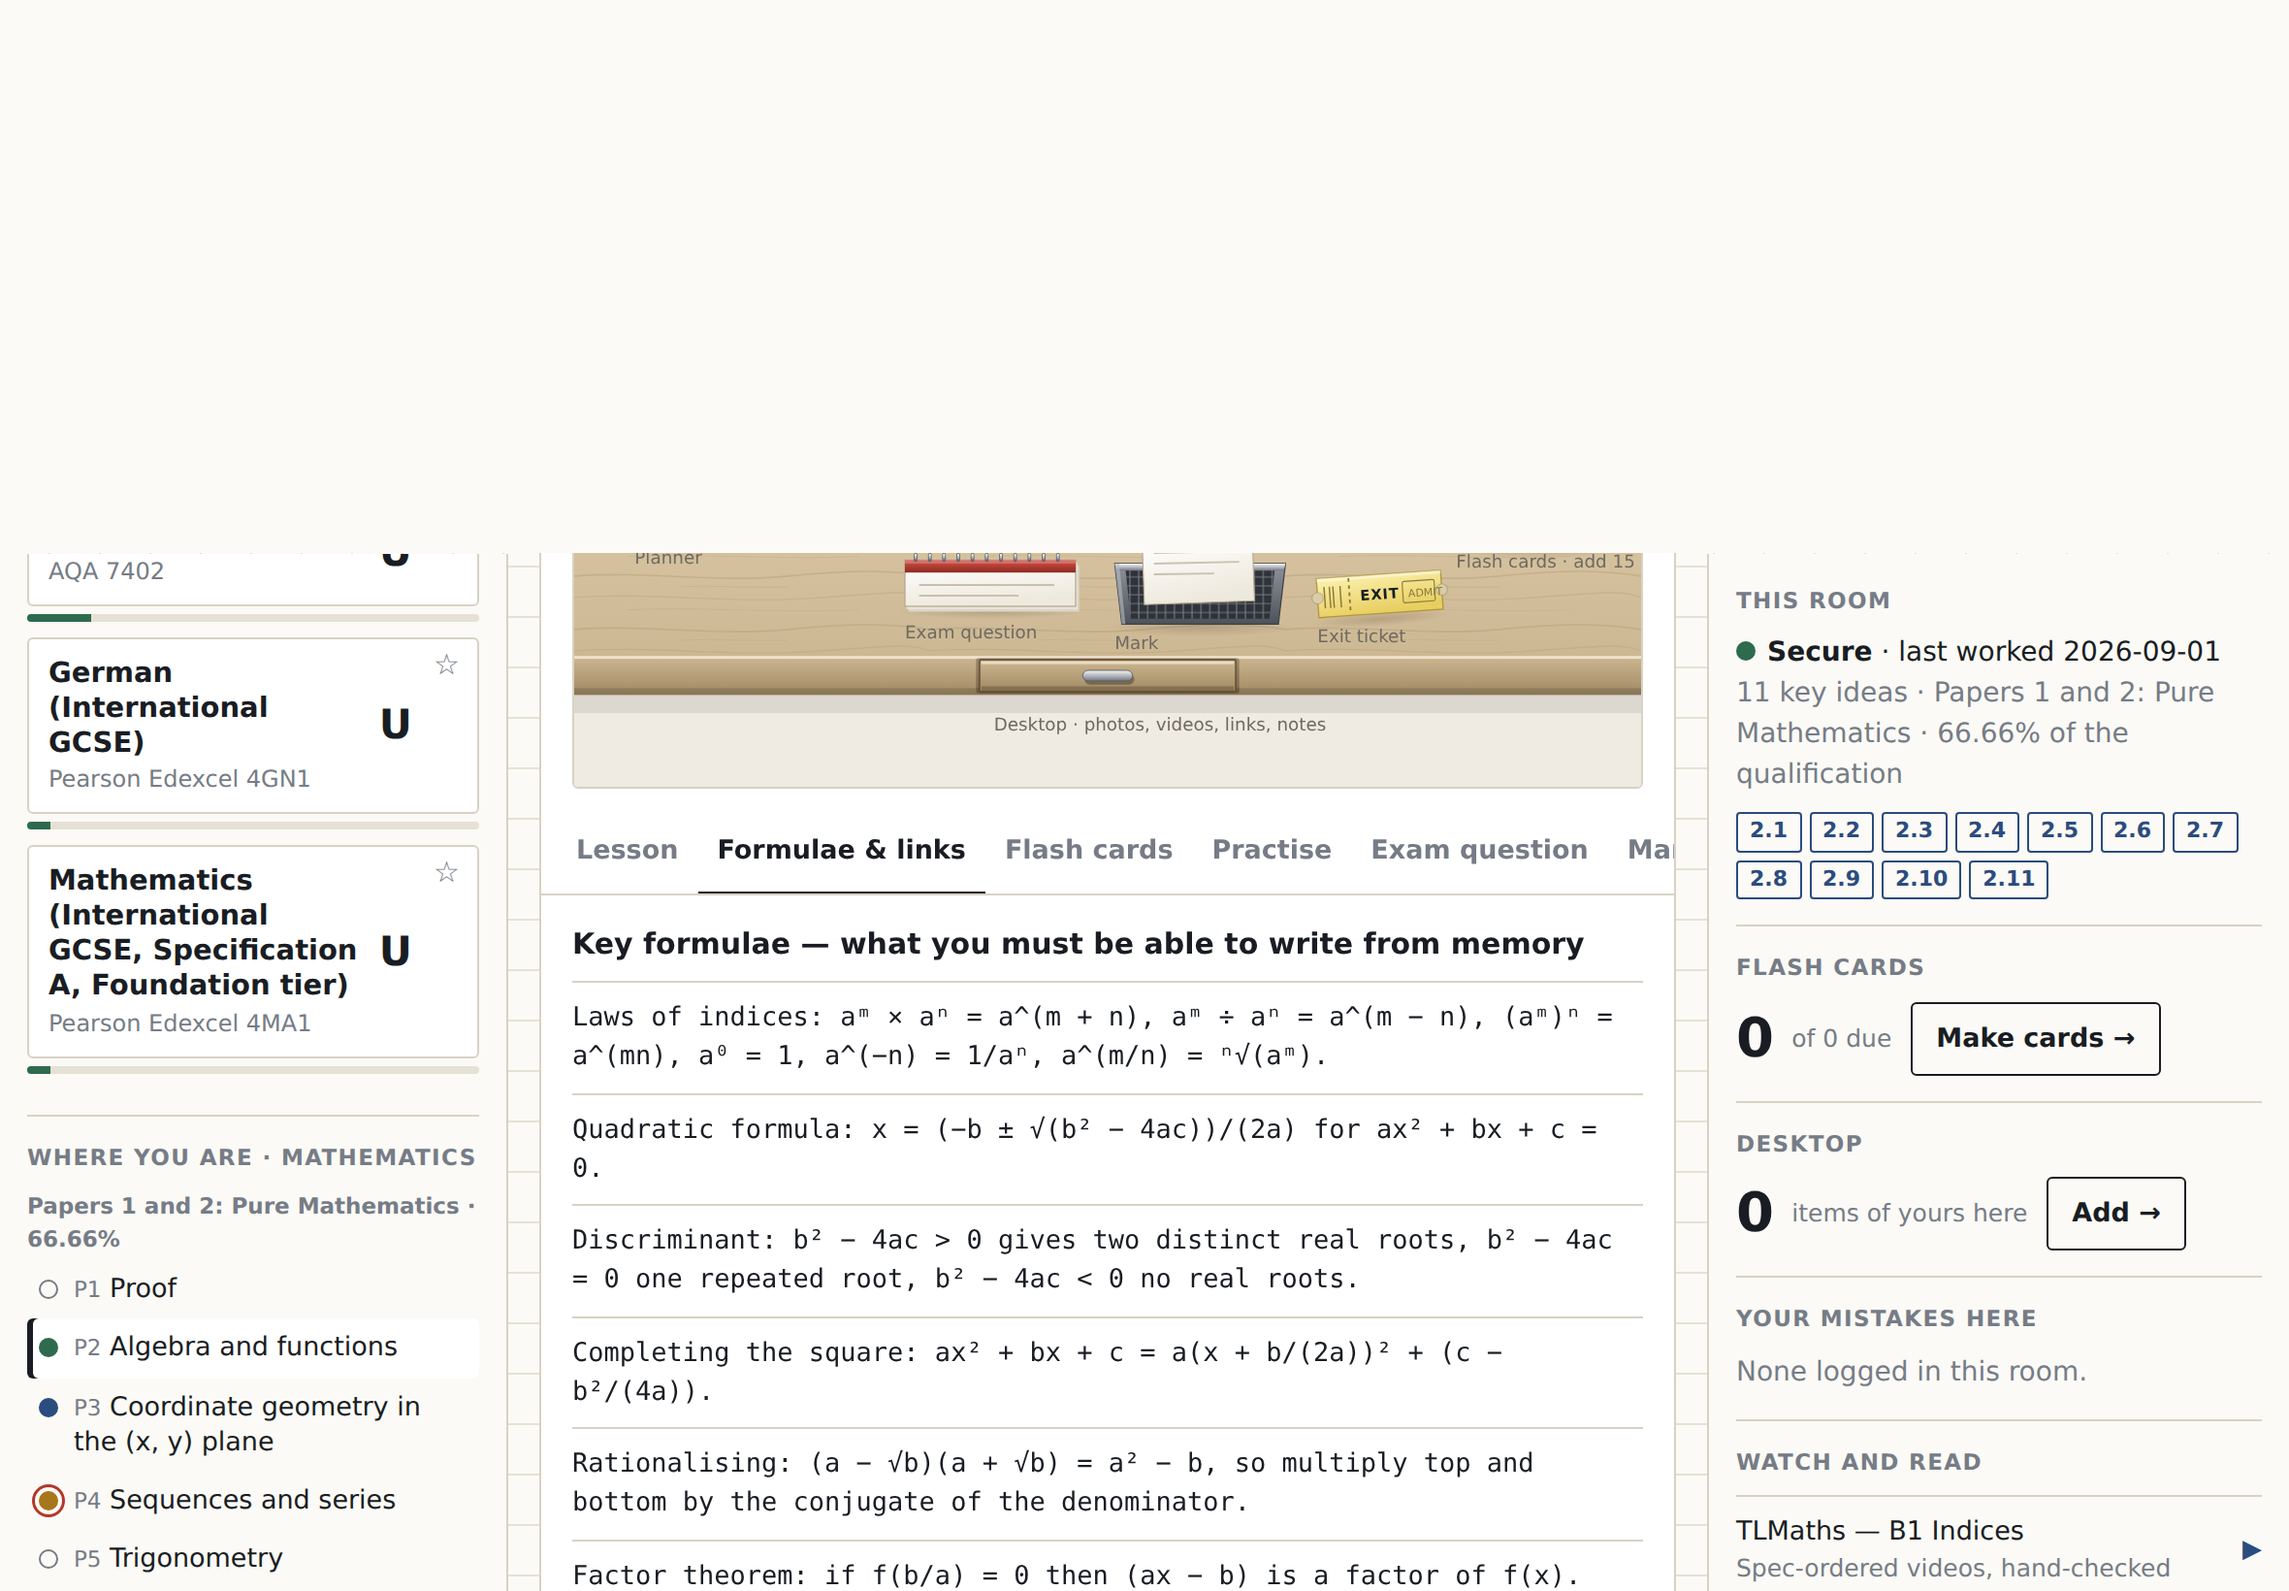
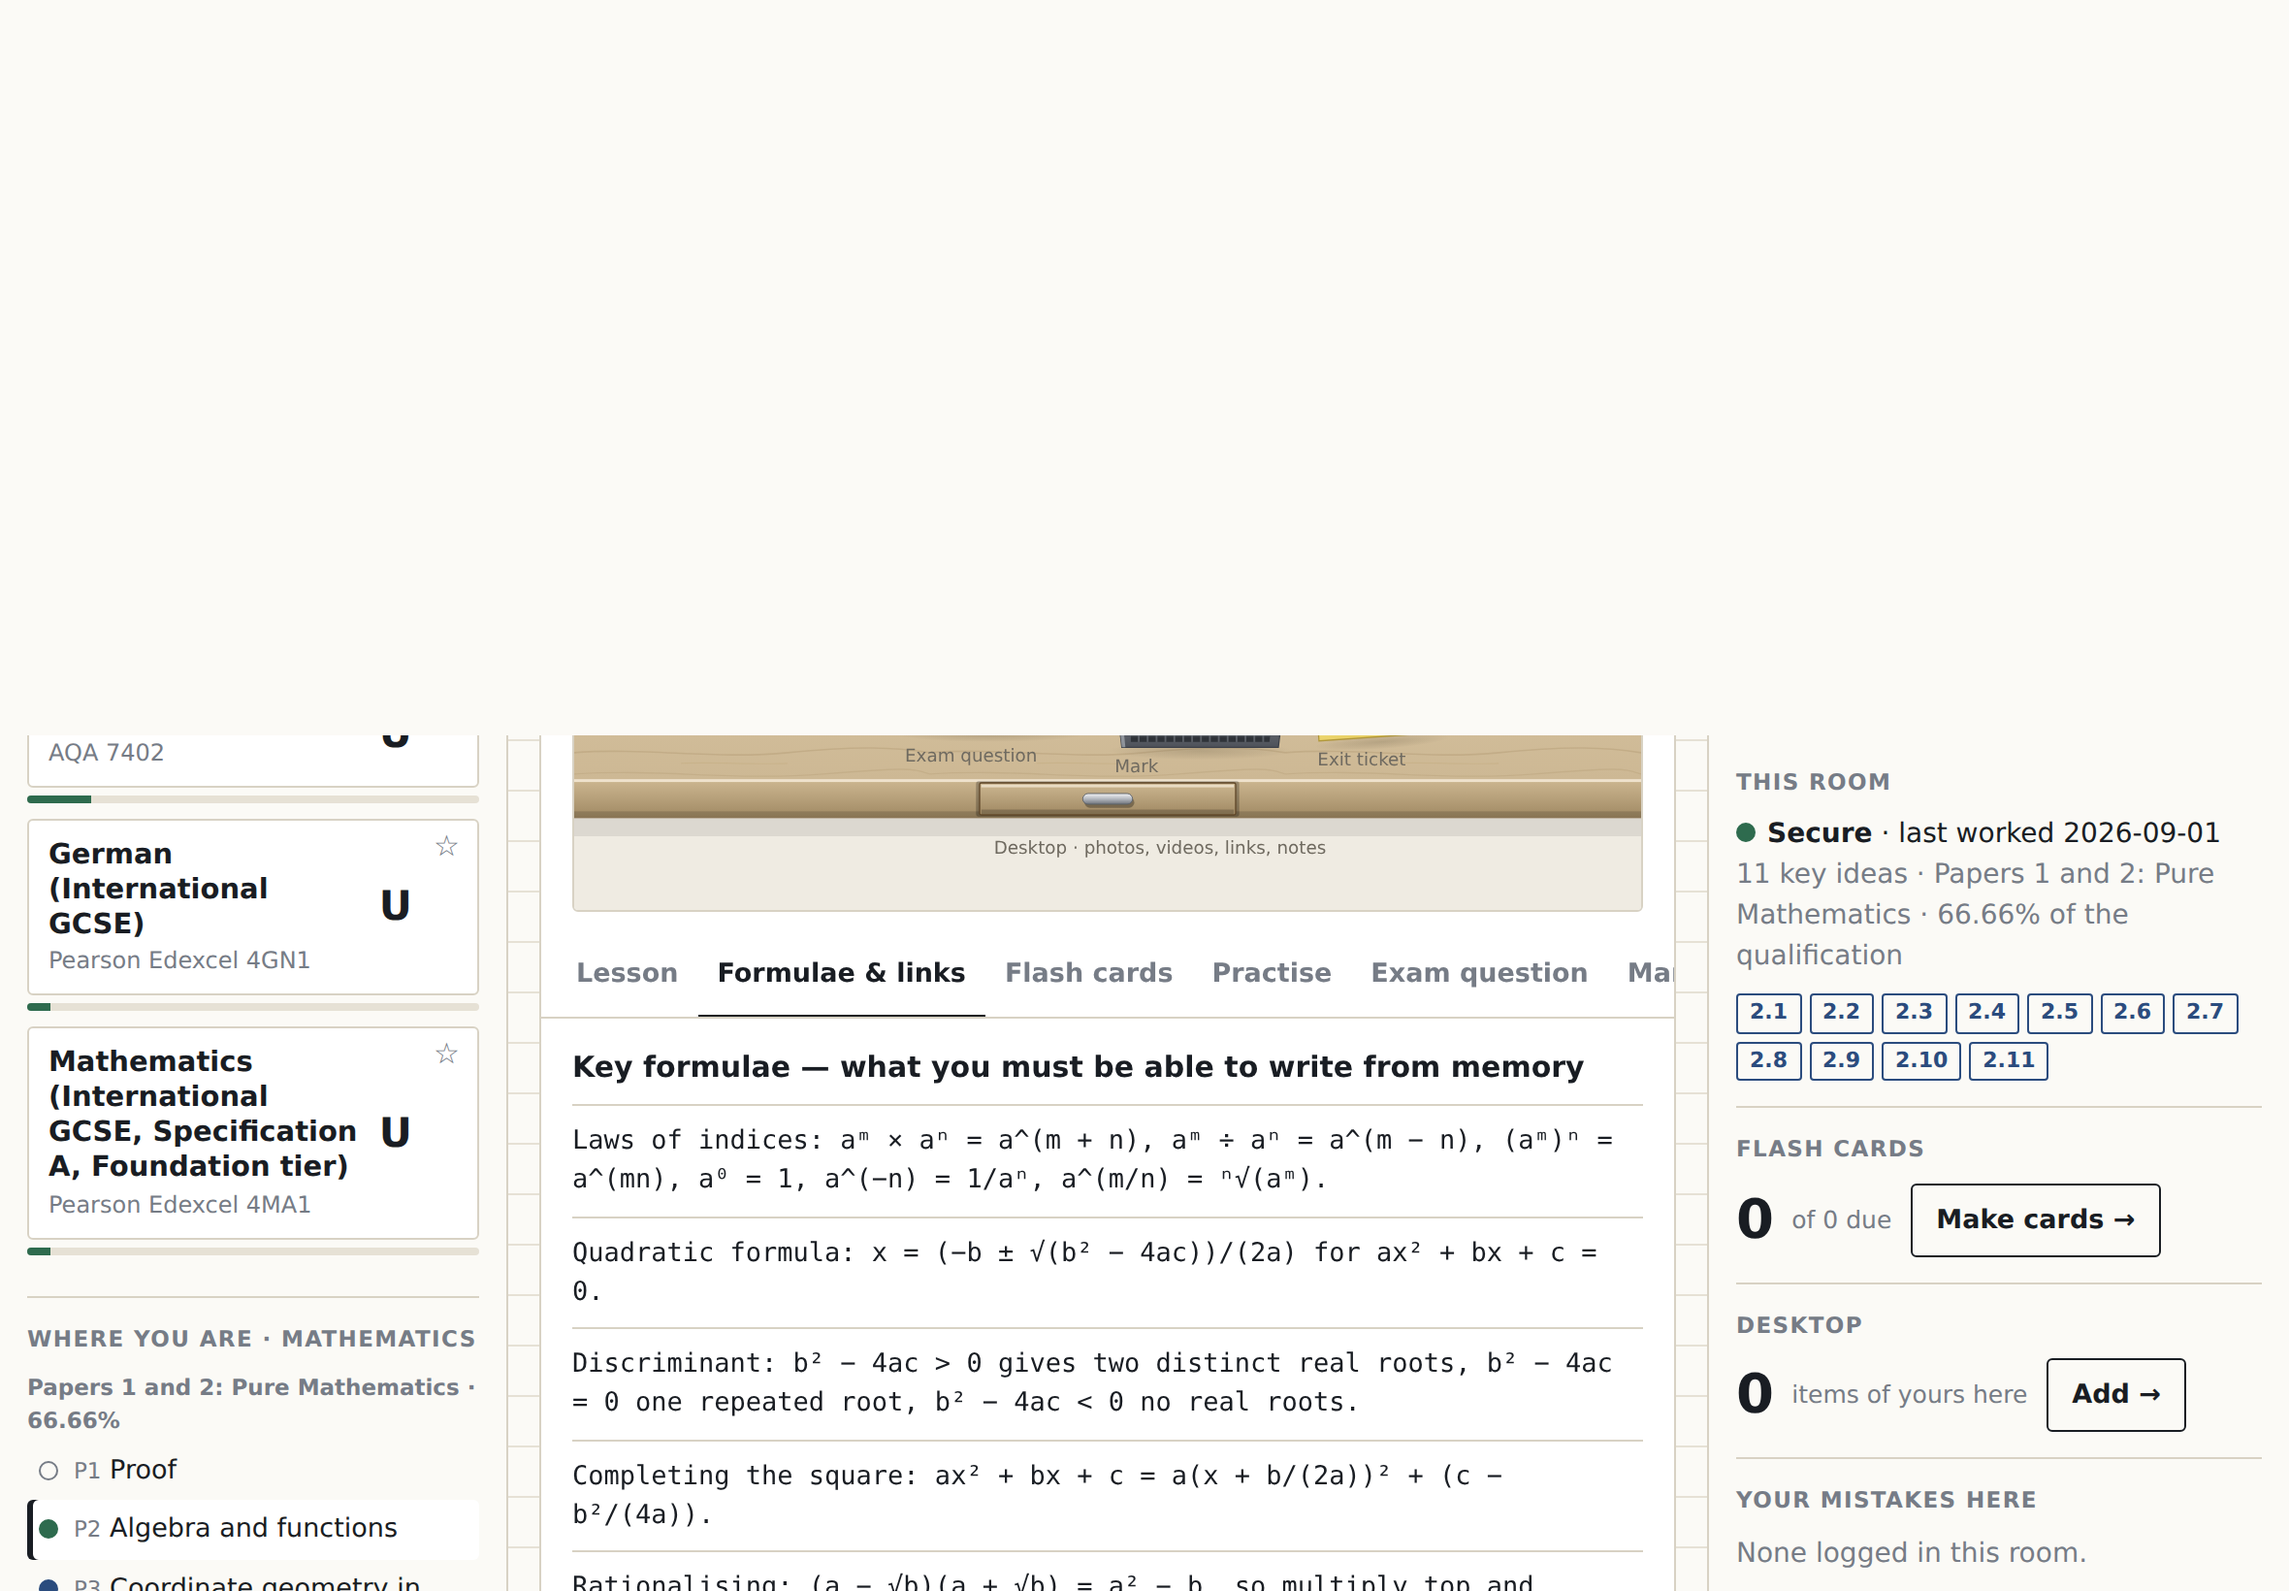
Topic tree, jump list and room header show a topic's id only when it is a real code the name does not already carry
Claude-Session: https://claude.ai/code/session_01Mh9bnPxQr2jGMgGjiwAVje

Changed region(s): [[0.2475, 0.3421, 0.9898, 1.0], [0.0, 0.3421, 0.2165, 1.0], [0.1547, 0.4354, 0.1856, 0.4665]]

diff --git a/src/template.html b/src/template.html
@@ -76,6 +76,9 @@ const NUDGE_STATIONS=['lesson','cards','practise','essay','exit','desktop'];
 const coachName=()=>String(S&&S.setup&&S.setup.coachName||'').trim().slice(0,24)||'Coach';
 const DESK_ON=true; /* the drawn desk at the top of every room; false leaves the station strip alone */
 const specById=id=>SPECS[id];
+/* A topic's id is shown as a code only when it is one — "1.2", "P3", "10.1.1", a section letter — and the name does not already
+   begin with it ("A. Home and abroad"). Slug ids such as prose-mockingbird or non-topic-specific are never shown. */
+function topicCode(t){const id=String(t&&t.id||''),name=String(t&&t.name||'');if(!/^(?:[A-Z]{1,2}\d+(?:\.\d+)*[a-z]?|\d+(?:\.\d+)*[a-z]?|[A-Z])$/.test(id))return '';const q=id.replace(/[.*+?^${}()|[\]\\]/g,'\\$&');return new RegExp('^'+q+'(?=$|[\\s.:,;)\\-–—])','i').test(name)?'':id;}
 /* A room’s written content: a checked kit wins; the hand-authored maths layer (src/authored) is the fallback for rooms
    without one, and still lends its verified links, official documents, boundaries and dojo to every maths room. */
 const authoredFor=(specId,topicId)=>{const A=AUTHORED[specId];const k=KITS[specId+'|'+topicId];if(A&&!k){const room=A.rooms[topicId];if(!room)return null;return{room,lesson:A.lessons[topicId],sources:A.sources[topicId],official:A.official};}
@@ -225,7 +228,7 @@ function renderRoom(el){const {spec,topic,n}=nodeTopic(UI.room);const st=UI.stat
   const ki=!AU?kitInfo(spec.id,topic.id):null;const kitNote=AU&&AU.kit?`<div class="prov">Written and checked ${esc(new Date(AU.kit.built.at).toLocaleDateString('en-GB',{day:'numeric',month:'short',year:'numeric'}))} · judged ${Math.round((AU.kit.built.judge&&AU.kit.built.judge.score||0)*100)}% by a second model</div>`:ki?(ki.failed?'<div class="note">This room’s written lesson, question bank and cards could not be checked well enough to publish, and Chris has been told. Everything below still works — it is written for you as you go.</div>':!ki.at?'<div class="note">This room’s lesson, question bank and cards are being written and checked — a few minutes. Everything below works meanwhile.</div>':''):'';
   if(st==='mark')body=stMark(spec,topic);if(st==='desktop')body=stDesktop(spec,topic);if(st==='planner')body=stPlanner(spec,topic,n);
   if(st==='lesson')body=stLesson(spec,topic);if(st==='cards')body=stCards(spec,topic);if(st==='practise')body=stPractise(spec,topic,n);if(st==='essay')body=stEssay(spec,topic);if(st==='exit')body=stExit(spec,topic,n);if(st==='coach')body=stCoach(spec,topic);
-  el.innerHTML=`<div class="panel"><button class="open" id="backRooms">← ${esc(spec.subject)} rooms</button><h2 style="margin-top:8px">${esc(topic.name)}</h2><p class="sub">${esc(spec.board)} ${esc(spec.code)} · ${esc(topic.id)} · ${n.state}${n.lastPractised?` · last worked ${n.lastPractised}`:''}</p>${kitNote}${DESK_ON?deskHtml(spec,topic,n,AU,factsLabel):''}
+  el.innerHTML=`<div class="panel"><button class="open" id="backRooms">← ${esc(spec.subject)} rooms</button><h2 style="margin-top:8px">${esc(topic.name)}</h2><p class="sub">${esc(spec.board)} ${esc(spec.code)}${topicCode(topic)?` · ${esc(topicCode(topic))}`:''} · ${n.state}${n.lastPractised?` · last worked ${n.lastPractised}`:''}</p>${kitNote}${DESK_ON?deskHtml(spec,topic,n,AU,factsLabel):''}
    <div class="stations">${tabs.map(([k,l])=>`<button data-station="${k}" aria-selected="${st===k}">${esc(l)}</button>`).join('')}</div>${UI.busy?`<div class="note">${esc(UI.busy)} This is generated from the specification and checked before it\u2019s shown — about 20 seconds.</div>`:''}${UI.err?`<div class="remedy">${esc(UI.err)} <button class="act small ghost" id="retryGen">Try again</button></div>`:''}${body}</div>`;deskBind(el);renderRails();}
 function openStation(st,fromDesk){deskStopPlayers();UI.station=st;UI.revealed={};UI.err='';renderRooms();if(fromDesk){const strip=document.querySelector('.stations');if(strip&&strip.getBoundingClientRect&&typeof window.scrollTo==='function'){const top=strip.getBoundingClientRect().top+(window.scrollY||0)-8;try{window.scrollTo({top,behavior:'smooth'});}catch(e){window.scrollTo(0,top);}}}}
 function deskBind(el){if(!el.querySelectorAll)return;for(const g of el.querySelectorAll('.desk .dobj'))g.addEventListener('click',e=>{e.preventDefault();e.stopPropagation();openStation(g.dataset.station,true);});}
@@ -409,7 +412,7 @@ function activeSpec(){return specById((UI.subject&&S.setup.subjects.some(x=>x.sp
 function renderRailL(L){const sp=activeSpec();const due=new Set(dueForReview(S,TODAY));
   const cards=courseOrder().map(sub=>{const c=specById(sub.specId);const p=predictSubject(S,c,sub.options);const pin=!!(S.pinned&&S.pinned[c.id]);return `<div class="ccard${c.id===sp.id?' on':''}"><button class="cmain" data-course="${esc(c.id)}"><b>${esc(c.subject)}</b><small>${esc(c.board)} ${esc(c.code)}</small><span class="cg">${esc(p.grade)}</span></button><div class="bar mini"><i style="width:${p.pct}%"></i></div><button class="pin" data-pin="${esc(c.id)}" aria-pressed="${pin}" title="${pin?'Unpin':'Pin to the top'}">${pin?'★':'☆'}</button></div>`;}).join('');
   const nodes=Object.entries(S.nodes).filter(([,n])=>n.spec===sp.id);
-  const tree=sp.components.map(c=>{const mine=nodes.filter(([,n])=>{const t=sp.topics.find(x=>x.id===n.topic);return t&&t.component===c.id;});if(!mine.length)return '';return `<div class="comp"><div class="cname">${esc(c.name)} · ${c.weight}%</div>${mine.map(([id,n])=>{const t=sp.topics.find(x=>x.id===n.topic);const ki=kitInfo(sp.id,t.id);return `<button class="tnode${UI.room===id?' cur':''}" data-open="${esc(id)}" data-st="lesson"><i class="dot" data-s="${n.state}"${due.has(id)?' data-due="1"':''}></i><span><small>${esc(t.id)}</small> ${esc(t.name)}${ki&&!ki.at?'<i class="pen" title="Being written">✎</i>':''}</span></button>`;}).join('')}</div>`;}).join('');
+  const tree=sp.components.map(c=>{const mine=nodes.filter(([,n])=>{const t=sp.topics.find(x=>x.id===n.topic);return t&&t.component===c.id;});if(!mine.length)return '';return `<div class="comp"><div class="cname">${esc(c.name)} · ${c.weight}%</div>${mine.map(([id,n])=>{const t=sp.topics.find(x=>x.id===n.topic);const ki=kitInfo(sp.id,t.id);return `<button class="tnode${UI.room===id?' cur':''}" data-open="${esc(id)}" data-st="lesson"><i class="dot" data-s="${n.state}"${due.has(id)?' data-due="1"':''}></i><span>${topicCode(t)?`<small>${esc(topicCode(t))}</small> `:''}${esc(t.name)}${ki&&!ki.at?'<i class="pen" title="Being written">✎</i>':''}</span></button>`;}).join('')}</div>`;}).join('');
   L.innerHTML=`${navHtml('side')}<div class="rblock"><input id="jump" placeholder="Jump to a topic or code…" autocomplete="off" value="${esc(UI.jumpQ||'')}"><div id="jumpOut">${jumpHtml()}</div></div><div class="rblock"><h4>Courses</h4>${cards}</div><div class="rblock"><h4>Where you are · ${esc(sp.subject)}</h4><div class="tree">${tree}</div><div class="legend" style="margin-top:10px"><span><i class="dot" data-s="Unassessed"></i>New</span><span><i class="dot" data-s="Learning"></i>Learning</span><span><i class="dot" data-s="Fluent"></i>Fluent</span><span><i class="dot" data-s="Secure"></i>Secure</span><span><i class="dot" data-due="1"></i>Due</span></div></div>
    <div class="rblock account"><button class="act ghost small" data-act="courses">＋ Add or change courses</button>${AUTH_MODE?`<p class="fine">Signed in as <b>${esc((AUTH.user&&AUTH.user.name)||'')}</b>${isAdmin()?' (admin)':''}</p><button class="act ghost small" data-act="signout">Sign out</button>`:''}</div>`;}
 function jumpMatches(q){q=String(q||'').trim().toLowerCase();if(q.length<2)return [];const first=[],later=[];
@@ -417,7 +420,7 @@ function jumpMatches(q){q=String(q||'').trim().toLowerCase();if(q.length<2)retur
     if(t.name.toLowerCase().includes(q)||String(t.id).toLowerCase().includes(q))first.push({id,sp,t,hit:null});
     else{const k=(t.ideas||[]).find(i=>String(i.code).toLowerCase().includes(q)||String(i.idea||'').toLowerCase().includes(q)||String(i.content||'').toLowerCase().includes(q));if(k)later.push({id,sp,t,hit:k});}}}
   return first.concat(later).slice(0,8);}
-function jumpHtml(){if(String(UI.jumpQ||'').trim().length<2)return '';const m=jumpMatches(UI.jumpQ);return m.length?m.map(x=>`<button class="tnode" data-open="${esc(x.id)}" data-st="lesson"><i class="dot" data-s="${S.nodes[x.id].state}"></i><span><small>${esc(x.sp.subject)} · ${esc(x.t.id)}</small> ${esc(x.t.name)}${x.hit?`<br><small>${esc(x.hit.code)} ${esc(x.hit.idea)}</small>`:''}</span></button>`).join(''):'<div class="empty">No topic matches.</div>';}
+function jumpHtml(){if(String(UI.jumpQ||'').trim().length<2)return '';const m=jumpMatches(UI.jumpQ);return m.length?m.map(x=>`<button class="tnode" data-open="${esc(x.id)}" data-st="lesson"><i class="dot" data-s="${S.nodes[x.id].state}"></i><span><small>${esc(x.sp.subject)}${topicCode(x.t)?` · ${esc(topicCode(x.t))}`:''}</small> ${esc(x.t.name)}${x.hit?`<br><small>${esc(x.hit.code)} ${esc(x.hit.idea)}</small>`:''}</span></button>`).join(''):'<div class="empty">No topic matches.</div>';}
 function ringHtml(pct,grade,label){const r=15.9;return `<div class="ringwrap"><svg class="ring" viewBox="0 0 36 36" aria-hidden="true"><circle cx="18" cy="18" r="${r}" fill="none" stroke="#E6E1D5" stroke-width="3"/><circle cx="18" cy="18" r="${r}" fill="none" stroke="#2E6B4E" stroke-width="3" stroke-dasharray="${Math.max(0,Math.min(100,pct))} 100" stroke-linecap="round" transform="rotate(-90 18 18)"/><text x="18" y="21.5" text-anchor="middle" font-size="10" font-weight="700" fill="#191D23">${esc(grade)}</text></svg><div><b>${esc(label)}</b><small>${pct}% · predicted ${esc(grade)}</small></div></div>`;}
 /* Videos for the room: the Worker searches YouTube, a model keeps the ones that teach this topic, each is checked to exist,
    and the list is cached per room. Nothing is listed when nothing passed — never a bare search link. */

diff --git a/tests/app.test.js b/tests/app.test.js
@@ -147,6 +147,7 @@ const click=async s=>L.click({target:T(s)});const change=async s=>L.change({targ
  /* ============ three-panel GUI (tooler criteria 3–10) ============ */
  G.go('today');G.renderAll();
  ok('G1 the left rail lists every course with a predicted grade, a mastery bar and a pin, and has the quick-jump box',(reg['rail-l'].innerHTML.match(/data-course="/g)||[]).length===3&&/class="cg">/.test(reg['rail-l'].innerHTML)&&/class="bar mini"/.test(reg['rail-l'].innerHTML)&&/data-pin="OCR-H481"/.test(reg['rail-l'].innerHTML)&&/id="jump"/.test(reg['rail-l'].innerHTML),reg['rail-l'].innerHTML.slice(0,300));
+ ok('G0 a topic id is shown as a code only when it is one and the name does not already start with it',G.topicCode({id:'1.2',name:'Earth’s life support systems'})==='1.2'&&G.topicCode({id:'P3',name:'Coordinate geometry'})==='P3'&&G.topicCode({id:'10.1.1',name:'Use of apparatus'})==='10.1.1'&&G.topicCode({id:'A',name:'A. Home and abroad'})===''&&G.topicCode({id:'1.2',name:'1.2 Fractions'})===''&&G.topicCode({id:'prose-mockingbird',name:'To Kill a Mockingbird — Harper Lee'})===''&&G.topicCode({id:'non-topic-specific',name:'Non-topic-specific vocabulary'})===''&&G.topicCode({id:'2.2-reading',name:'Paper 2'})===''&&G.topicCode({id:'B',name:'Bonding'})==='B');
  ok('G1 the topic tree groups the active course by component with a status dot per topic',/class="comp"/.test(reg['rail-l'].innerHTML)&&/Physical systems/.test(reg['rail-l'].innerHTML)&&(reg['rail-l'].innerHTML.match(/class="tnode/g)||[]).length===9&&/class="dot" data-s="Fluent"/.test(reg['rail-l'].innerHTML)&&/data-open="OCR-H481\|1\.2"/.test(reg['rail-l'].innerHTML),String((reg['rail-l'].innerHTML.match(/class="tnode/g)||[]).length));
  await click({dataset:{course:'EDX-9PL0'}});ok('G2 tapping a course makes it active in Rooms and re-draws the tree for it',G.UI.subject==='EDX-9PL0'&&G.view==='rooms'&&(reg['rail-l'].innerHTML.match(/class="tnode/g)||[]).length===18&&/Democracy and participation/.test(reg['rail-l'].innerHTML),G.view+' '+String((reg['rail-l'].innerHTML.match(/class="tnode/g)||[]).length));
  await click({dataset:{pin:'EDX-9PL0'}});ok('G3 pinning a course sorts it first and is saved in state',G.S.pinned['EDX-9PL0']===true&&reg['rail-l'].innerHTML.indexOf('data-course="EDX-9PL0"')<reg['rail-l'].innerHTML.indexOf('data-course="OCR-H481"')&&JSON.parse(store['platform:state:v1:matthew']).pinned['EDX-9PL0']===true);
